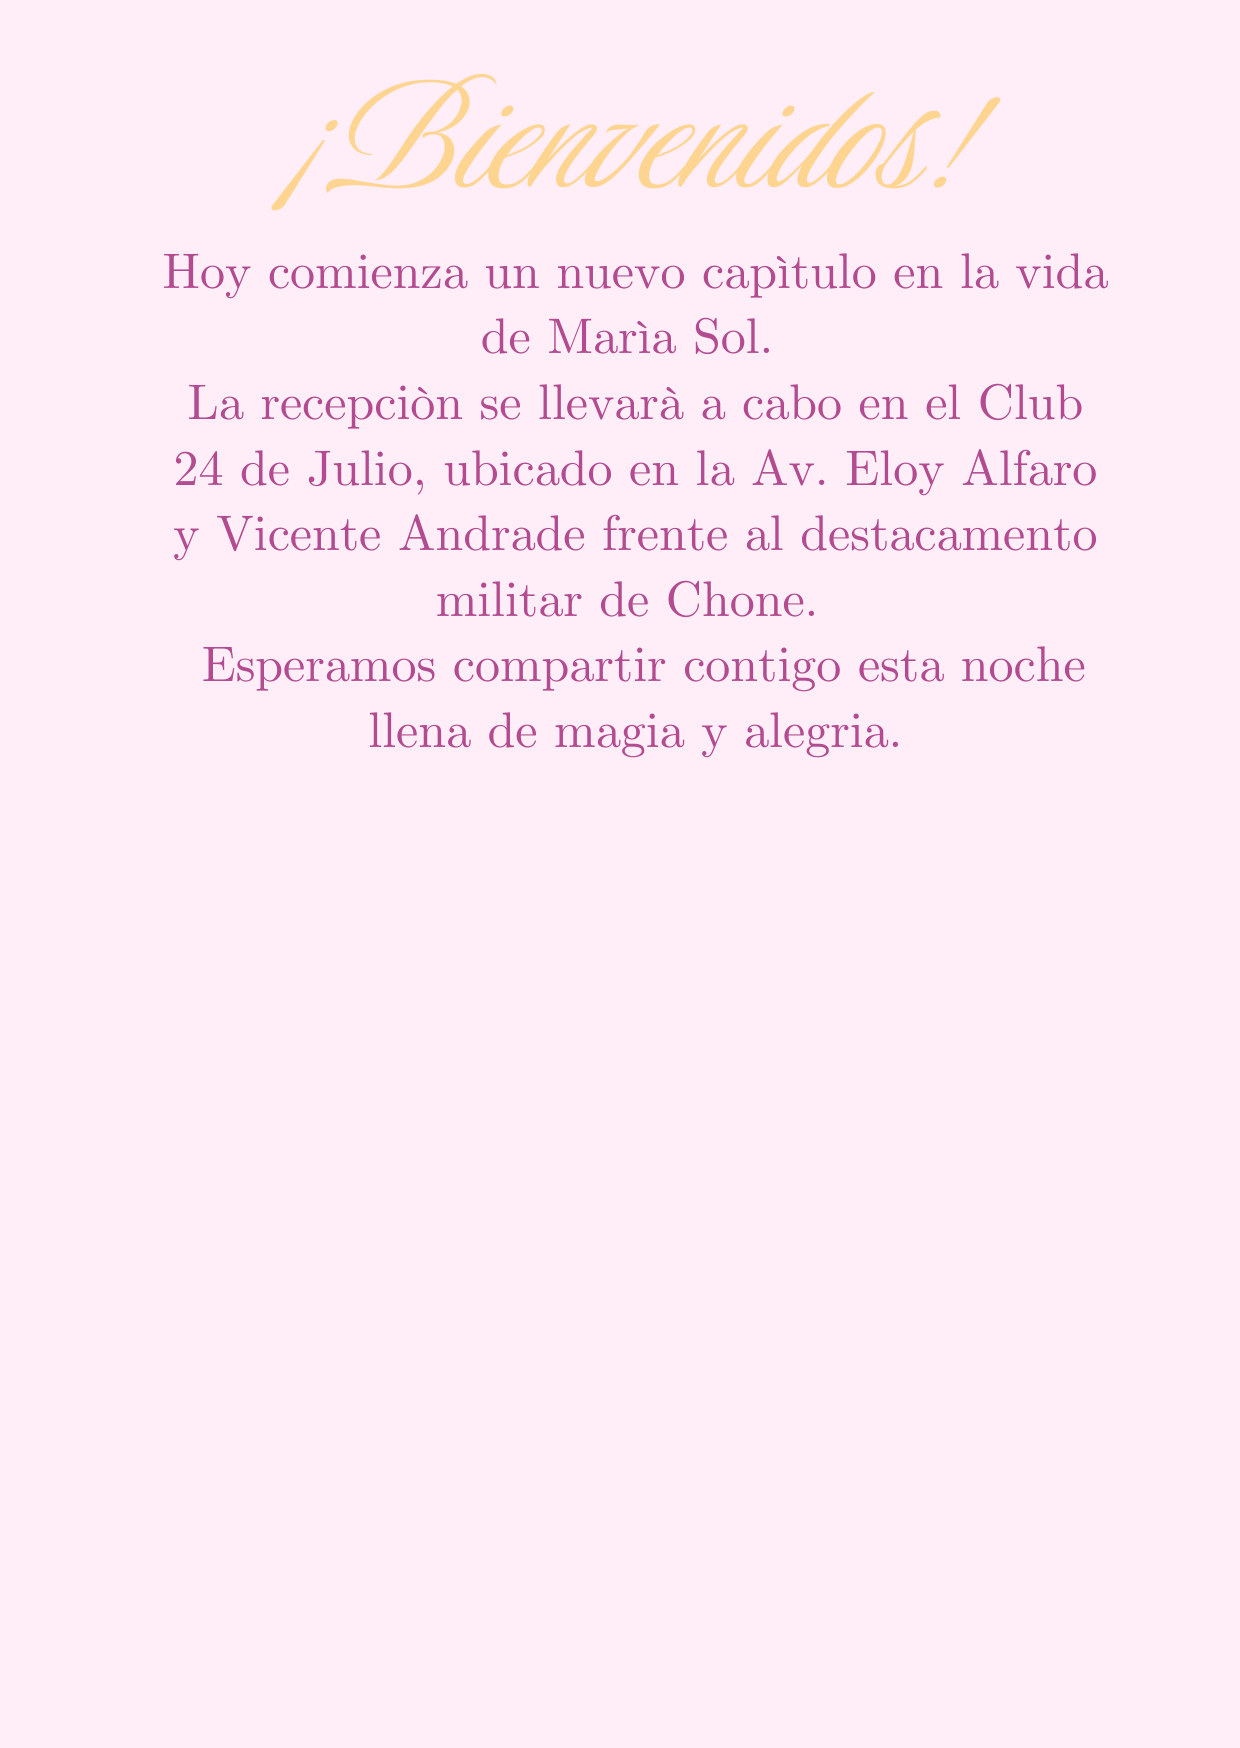
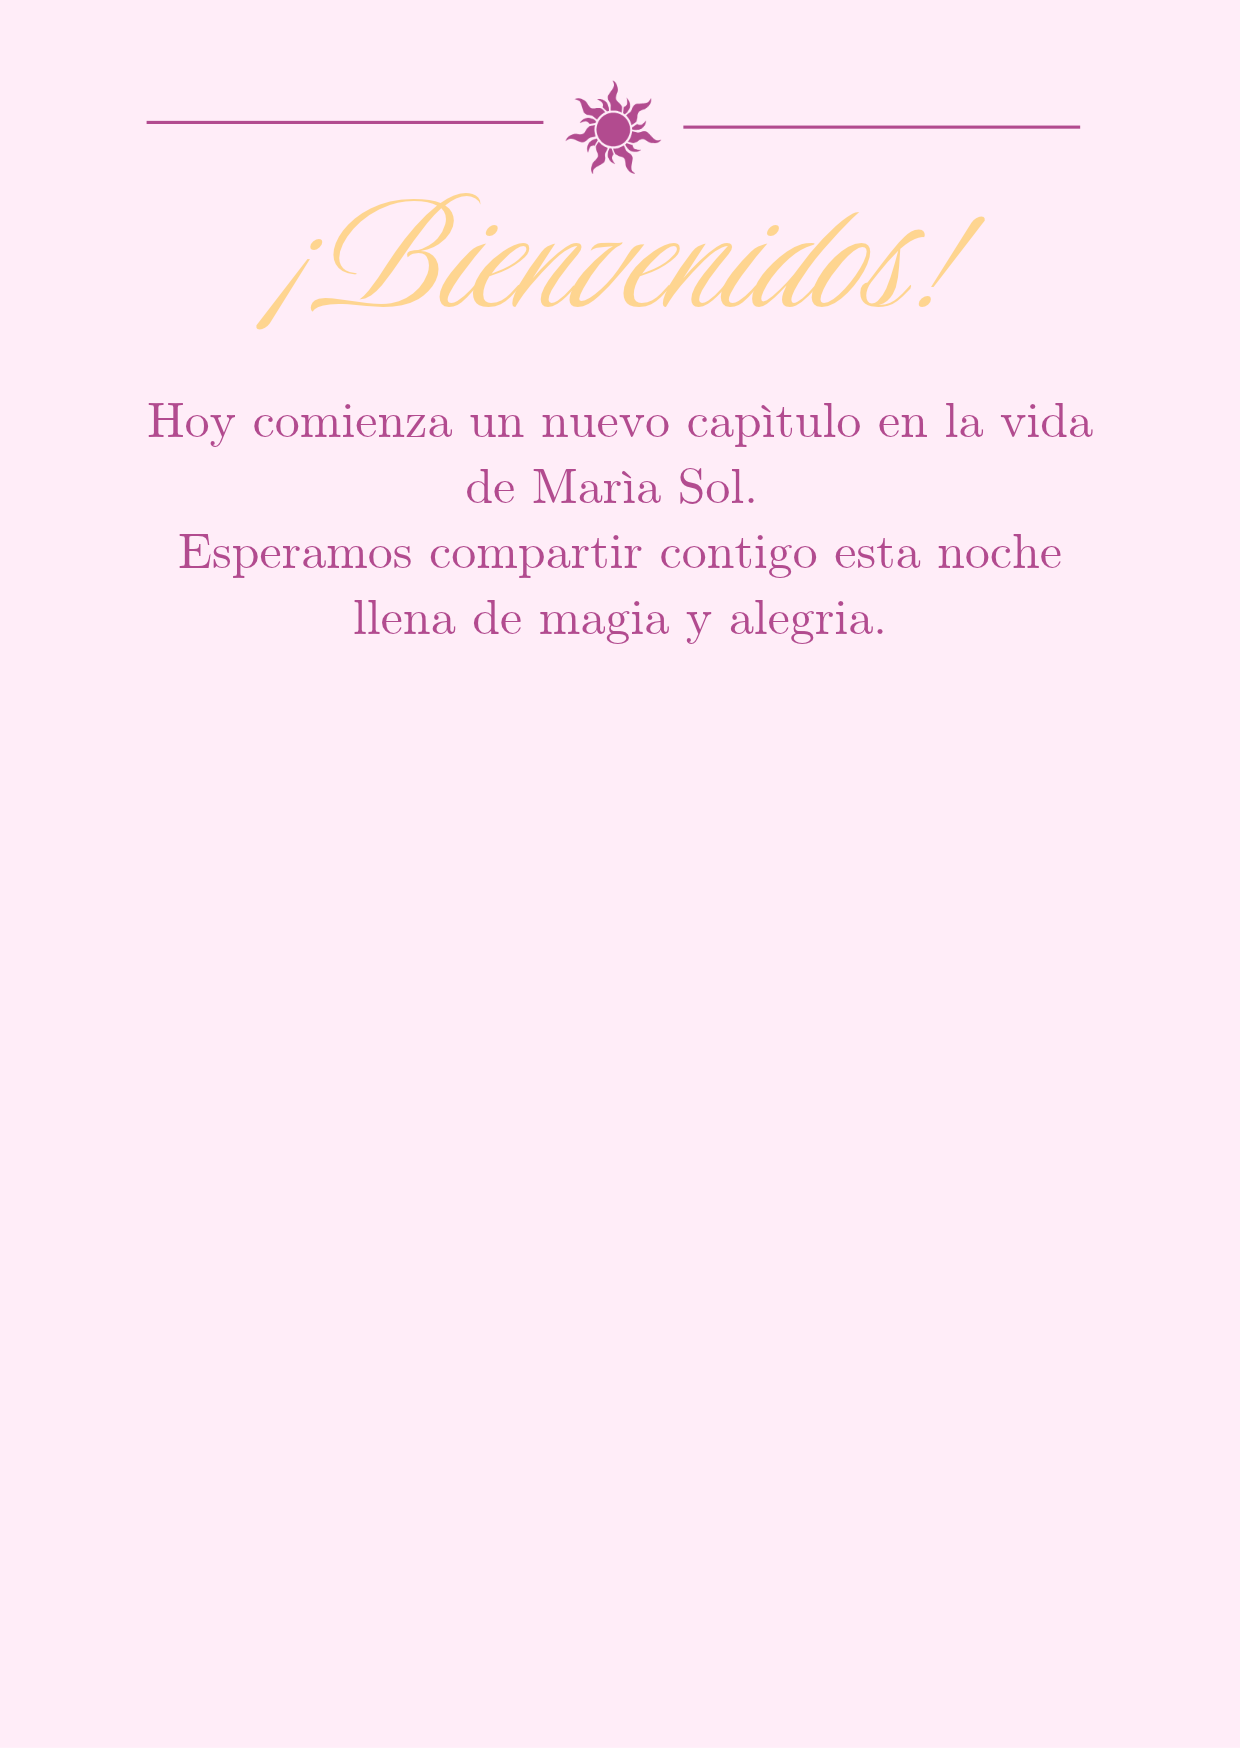
feat: add quinceañera invitation page with RSVP and countdown timer

diff --git a/src/app/page.tsx b/src/app/page.tsx
@@ -278,7 +278,7 @@ function HomeContent() {
           <div className="envelope-box">
             <video
               ref={introVideoRef}
-              className="h-full w-full object-contain"
+              className="absolute inset-0 h-full w-full object-cover md:object-contain"
               poster="/images/sobre-poster.jpg"
               preload="metadata"
               playsInline
@@ -305,7 +305,7 @@ function HomeContent() {
                   if (!video) return;
                   setIntroStarted(true);
                   video.muted = true;
-                  video.playbackRate = 1.4;
+                  video.playbackRate = 2.3;
                   video.play().catch(() => {
                     setIntroOpen(true);
                     setTimeout(() => setIntroDone(true), 450);
@@ -352,7 +352,7 @@ function HomeContent() {
           />
 
           {/* Galería: de borde a borde y pegada al fondo */}
-          <div className="absolute inset-x-0 top-[45%] bottom-0 z-10">
+          <div className="absolute inset-x-0 top-[38%] bottom-0 z-10">
             <PhotoGallery />
           </div>
         </section>
